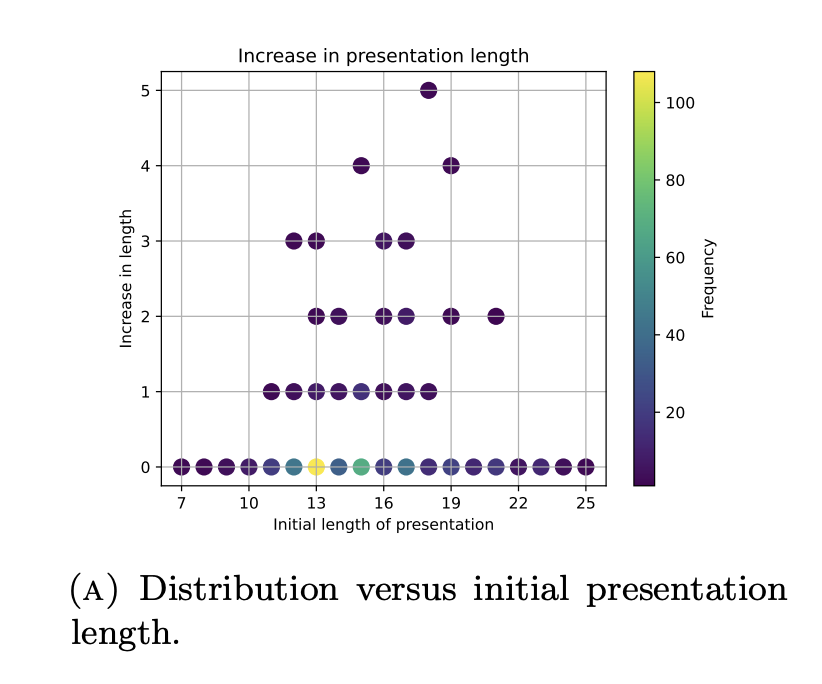
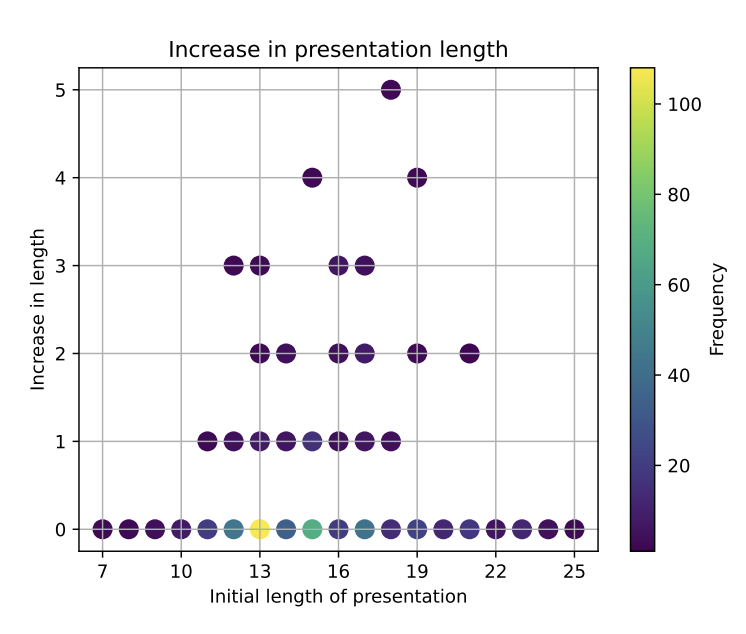
updated images and captions in readme

Changed region(s): [[0.0308, 0.0599, 0.9558, 0.959], [0.9558, 0.4196, 0.9866, 0.5694]]

diff --git a/README.md b/README.md
@@ -2,8 +2,14 @@
 
 <table>
   <tr>
-    <td><img src="assets/image3.png" alt="Image 1" width="800"/></td>
-    <!-- <td><img src="assets/image2.png" alt="Image 2" width="800"/></td> -->
+    <td><img src="assets/image1.png" alt="Image 1" width="500"/></td>
+    <td><img src="assets/image3.png" alt="Image 2" width="500"/></td>
+    <td><img src="assets/image2.png" alt="Image 3" width="500"/></td>
+  </tr>
+  <tr>
+    <td align="center">A state has to become much more complex before it is solved.</td>
+    <td align="center">Path length distribution of solution for different initial states.</td>
+    <td align="center">Number of environment interactions scales approximately linearly with horizon length.</td>
   </tr>
 </table>
 
